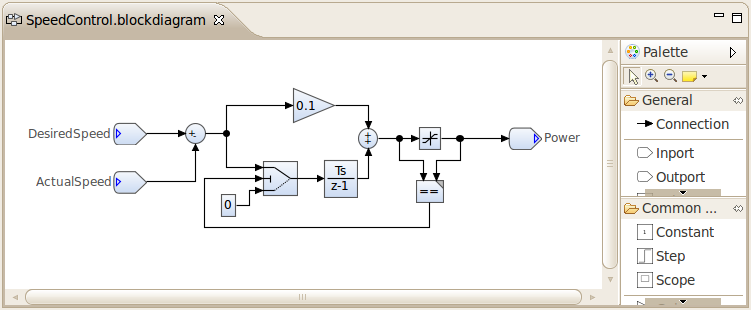
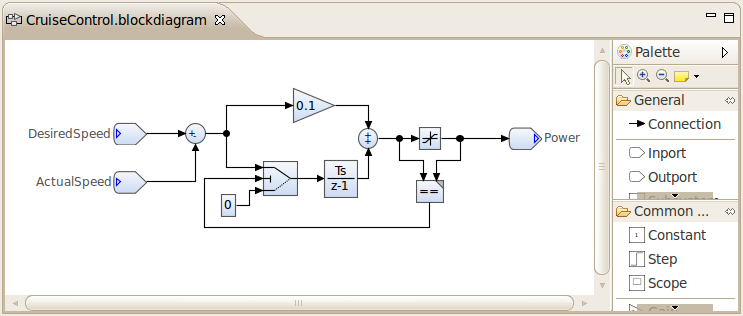
Documentation additions.

diff --git a/DAMOS/trunk/plugins/org.eclipselabs.damos.doc/help/02_UserGuide/01_GettingStarted/GettingStarted.html b/DAMOS/trunk/plugins/org.eclipselabs.damos.doc/help/02_UserGuide/01_GettingStarted/GettingStarted.html
@@ -1,1 +1,1 @@
-<?xml version='1.0' encoding='utf-8' ?><!DOCTYPE html PUBLIC "-//W3C//DTD XHTML 1.0 Transitional//EN" "http://www.w3.org/TR/xhtml1/DTD/xhtml1-transitional.dtd"><html xmlns="http://www.w3.org/1999/xhtml"><head><meta http-equiv="Content-Type" content="text/html; charset=utf-8"/><title>Getting Started</title><link type="text/css" rel="stylesheet" href="../content/PLUGINS_ROOT/PRODUCT_PLUGIN/book.css"/><link type="text/css" rel="stylesheet" href="../../style.css"/></head><body><table class="navigation" style="width: 100%;" border="0" summary="navigation"><tr><th style="width: 100%" align="center" colspan="3">Getting Started</th></tr><tr><td style="width: 20%" align="left"></td><td style="width: 60%" align="center"></td><td style="width: 20%" align="right"><a href="Generating-C-Code.html" title="Generating C Code"><img alt="Next" border="0" src="images/next.gif"/></a></td></tr><tr><td style="width: 20%" align="left" valign="top"></td><td style="width: 60%" align="center"></td><td style="width: 20%" align="right" valign="top">Generating C Code</td></tr></table><hr/><h1 id="CreatingandSimulatingaDamosModel">Creating and Simulating a Damos Model</h1><p>This tutorial provides a step by step walk-through of the basic features of Damos. It will show you how to create a simple Damos model using the block diagram editor and how to simulate the model.</p><h2 id="CreatingaNewDamosProject">Creating a New Damos Project</h2><ol><li>Inside Eclipse select the menu item <strong>File &gt; New &gt; Project...</strong> to open the <strong>New Project</strong> wizard.</li><li>Select <strong>Damos &gt; Damos Project</strong> then click <strong>Next</strong> to start the <strong>New Damos Project</strong> wizard: <img alt="New Damos Project Wizard" title="New Damos Project Wizard" border="0" src="01_CreatingModel_images/NewDamosProject.png"/></li><li>Enter a project name and click <strong>Finish</strong>.</li><li>In the <strong>Project Explorer</strong>, select the newly created Damos project and select the menu item <strong>File &gt; New &gt; Folder</strong>: <img alt="New Damos Project Wizard" title="New Damos Project Wizard" border="0" src="01_CreatingModel_images/NewModelFolder.png"/></li><li>Enter a name for the model folder and click <strong>Finish</strong>.</li></ol><p><em>Note:</em> Instead of creating a Damos project, any kind of project (e.g. C/C++) can be used as a container for Damos models. However, if you then open a Damos model the first time, you will be asked if a Damos project nature should be added to your project &#8212; which you should agree to. This ensures that model validation is performed automatically.</p><h2 id="CreatingaNewDamosModel">Creating a New Damos Model</h2><ol><li>In the <strong>Project Explorer</strong>, select the model folder and select the menu item <strong>File &gt; New &gt; Other...</strong> to open the <strong>New</strong> wizard.</li><li>Select <strong>Damos &gt; Block Diagram</strong> then click <strong>Next</strong> to start the <strong>New Block Diagram</strong> wizard: <img alt="New Block Diagram Wizard" title="New Block Diagram Wizard" border="0" src="01_CreatingModel_images/NewBlockDiagram.png"/></li><li>Enter a new model name and click <strong>Finish</strong>.</li></ol><p>After clicking <strong>Finish</strong>, an empty block diagram file will be created in the model folder, and will be opened in a block diagram editor.</p><h2 id="DesigningtheModel">Designing the Model</h2><p>In this section we are going to design a simple PI controller with a first-order process.</p><h3 id="AddingBlockstotheBlockDiagram">Adding Blocks to the Block Diagram</h3><p>To add blocks to the block diagram, either drag-and-drop the block from the tool palette onto the diagram, or select a block in the tool palette and then click at the location in the diagram where you want to add the block. The blocks that we are going to need in our example can be found in the <strong>Common Blocks</strong> drawer of the tool palette. If blocks in the <strong>Common Blocks</strong> drawer are missing, the <strong>Show All</strong> palette entry can be clicked to open all blocks of the block library in the <strong>Block Library</strong> view. Note that you can only drag-and-drop blocks from the <strong>Block Library</strong> view onto the diagram.</p><p>In our PI controller example, we need to add to the following blocks to the block diagram:</p><ul><li>Two <strong>Sum</strong> blocks, a <strong>Gain</strong> block, and an <strong>Integrator</strong> block representing the PI controller</li><li>A <strong>Transfer Function</strong> block representing our process</li><li>A <strong>Step</strong> block and a <strong>Scope</strong> used for simulation purposes</li></ul><p>After adding the blocks to the block diagram, the block diagram should look as follows:  </p><p><img alt="Block diagram with blocks" title="Block diagram with blocks" border="0" src="01_CreatingModel_images/BlockDiagramWithBlocks.png"/></p><p><em>Note:</em> If you save the incomplete model, errors will be reported in your block diagram. This is due to the fact that we did not connect the blocks yet, and thus the model is still invalid.</p><h3 id="SettingBlockandPortProperties">Setting Block and Port Properties</h3><p>When adding new blocks to the block diagram, the values of the block parameters are initialized to default values. To change the block parameter values, you have to open the <strong>Properties</strong> view (if not yet done). To accomplish this, open the context menu (right-click) of a block and click <strong>Show Properties View</strong>. In the <strong>Properties</strong> view, select the tab <strong>Parameters</strong>.</p><p>In our example model, we need to change the following parameters:</p><ul><li>The gain value of the <strong>Gain</strong> block will be set to 10: <img alt="Gain parameters" title="Gain parameters" border="0" src="01_CreatingModel_images/GainParameters.png"/></li><li>The gain value of the <strong>Integrator</strong> block will be set to 10(1/s): <img alt="Integrator parameters" title="Integrator parameters" border="0" src="01_CreatingModel_images/IntegratorParameters.png"/></li></ul><p>Note that you can also set the gain value of the <strong>Gain</strong> block by clicking (not double-clicking!) on the gain value of the <strong>Gain</strong> block (do not move the mouse after the click). This <em>direct editing</em> behavior can also be found with other blocks.</p><p>Next, we need to change the sign of the second input port of the left <strong>Sum</strong> block to <em>negative</em>. This is is done in the <strong>Ports</strong> tab of the <strong>Properties</strong> view:</p><p><img alt="Sum input port sign" title="Sum input port sign" border="0" src="01_CreatingModel_images/SumInputPortSign.png"/></p><p>Finally, we need to change the port arrangement of the right <strong>Sum</strong> block to <strong>Port-spacer-port</strong>. This is is done in the <strong>Ports</strong> tab of the <strong>Properties</strong> view:</p><p><img alt="Sum input port port arrangement" title="Sum input port port arrangement" border="0" src="01_CreatingModel_images/SumInputPortArrangement.png"/></p><h3 id="ConnectingBlocks">Connecting Blocks</h3><p>To create a connection between an input port of a block and an output port of another block, click the port terminal of either block and drag it to the port terminal of the other block. Alternatively, you can use the <strong>Connection</strong> tool in the <strong>General</strong> palette drawer to create connections between two blocks. After connecting the blocks, the block diagram should look as follows:</p><p><img alt="Final block diagram" title="Final block diagram" border="0" src="01_CreatingModel_images/FinalBlockDiagram.png"/></p><h2 id="SimulatingtheModel">Simulating the Model</h2><p>The easiest way to simulate the model is by setting the focus on the block diagram editor, and then clicking the <strong>Run</strong> (<img border="0" src="01_CreatingModel_images/run_exc.gif"/>) icon in the toolbar. This will create a new simulation run configuration for the focused block diagram, and start the simulation. The simulation result will be shown in the <strong>Simulation</strong> view:</p><p><img alt="Simulation result" title="Simulation result" border="0" src="01_CreatingModel_images/SimulationResult.png"/></p><p>The default simulation run configuration utilizes a commonly used adaptive step size solver (Dormand-Prince 5(4)) using a typical solver configuration. If required, you can adjust the simulation settings in the simulation run configuration dialog (<strong>Run &gt; Run Configurations...</strong>):</p><p><img alt="Simulation run configuration" title="Simulation run configuration" border="0" src="01_CreatingModel_images/SimulationRunConfiguration.png"/></p><p>If you need more control over the simulation, you can define a <em>simulation model</em>, which will directly be passed to the simulator by the simulation launcher. See the topic <em>Concepts</em> for more information on the simulation model.</p><hr/><table class="navigation" style="width: 100%;" border="0" summary="navigation"><tr><td style="width: 20%" align="left"></td><td style="width: 60%" align="center"></td><td style="width: 20%" align="right"><a href="Generating-C-Code.html" title="Generating C Code"><img alt="Next" border="0" src="images/next.gif"/></a></td></tr><tr><td style="width: 20%" align="left" valign="top"></td><td style="width: 60%" align="center"></td><td style="width: 20%" align="right" valign="top">Generating C Code</td></tr></table></body></html>
+<?xml version='1.0' encoding='utf-8' ?><!DOCTYPE html PUBLIC "-//W3C//DTD XHTML 1.0 Transitional//EN" "http://www.w3.org/TR/xhtml1/DTD/xhtml1-transitional.dtd"><html xmlns="http://www.w3.org/1999/xhtml"><head><meta http-equiv="Content-Type" content="text/html; charset=utf-8"/><title>Getting Started</title><link type="text/css" rel="stylesheet" href="../content/PLUGINS_ROOT/PRODUCT_PLUGIN/book.css"/><link type="text/css" rel="stylesheet" href="../../style.css"/></head><body><table class="navigation" style="width: 100%;" border="0" summary="navigation"><tr><th style="width: 100%" align="center" colspan="3">Getting Started</th></tr><tr><td style="width: 20%" align="left"></td><td style="width: 60%" align="center"></td><td style="width: 20%" align="right"><a href="Generating-C-Code.html" title="Generating C Code"><img alt="Next" border="0" src="images/next.gif"/></a></td></tr><tr><td style="width: 20%" align="left" valign="top"></td><td style="width: 60%" align="center"></td><td style="width: 20%" align="right" valign="top">Generating C Code</td></tr></table><hr/><h1 id="CreatingandSimulatingaDamosModel">Creating and Simulating a Damos Model</h1><p>This tutorial provides a step by step walk-through of the basic features of Damos. It will show you how to create a simple Damos model using the block diagram editor and how to simulate the model.</p><h2 id="CreatingaNewDamosProject">Creating a New Damos Project</h2><ol><li>Inside Eclipse select the menu item <strong>File &gt; New &gt; Project...</strong> to open the <strong>New Project</strong> wizard.</li><li>Select <strong>Damos &gt; Damos Project</strong> and then click <strong>Next</strong> to start the <strong>New Damos Project</strong> wizard: <img alt="New Damos Project Wizard" title="New Damos Project Wizard" border="0" src="01_CreatingModel_images/NewDamosProject.png"/></li><li>Enter a project name and click <strong>Finish</strong>.</li><li>In the <strong>Project Explorer</strong>, select the newly created Damos project and select the menu item <strong>File &gt; New &gt; Folder</strong>: <img alt="New Damos Project Wizard" title="New Damos Project Wizard" border="0" src="01_CreatingModel_images/NewModelFolder.png"/></li><li>Enter a name for the model folder and click <strong>Finish</strong>.</li></ol><p><em>Note:</em> Instead of creating a Damos project, any kind of project (e.g. C/C++) can be used as a container for Damos models. However, if you then open a Damos model the first time, you will be asked if a Damos project nature should be added to your project &#8212; which you should agree to. This ensures that model validation is performed automatically.</p><h2 id="CreatingaNewDamosModel">Creating a New Damos Model</h2><ol><li>In the <strong>Project Explorer</strong>, select the model folder and select the menu item <strong>File &gt; New &gt; Other...</strong> to open the <strong>New</strong> wizard.</li><li>Select <strong>Damos &gt; Block Diagram</strong> and then click <strong>Next</strong> to start the <strong>New Block Diagram</strong> wizard: <img alt="New Block Diagram Wizard" title="New Block Diagram Wizard" border="0" src="01_CreatingModel_images/NewBlockDiagram.png"/></li><li>Enter a new model name and click <strong>Finish</strong>.</li></ol><p>After clicking <strong>Finish</strong>, an empty block diagram file will be created in the model folder, and will be opened in a block diagram editor.</p><h2 id="DesigningtheModel">Designing the Model</h2><p>In this section we are going to design a simple PI controller with a first-order process.</p><h3 id="AddingBlockstotheBlockDiagram">Adding Blocks to the Block Diagram</h3><p>To add blocks to the block diagram, either drag-and-drop the block from the tool palette onto the diagram, or select a block in the tool palette and then click at the location in the diagram where you want to add the block. The blocks that we are going to need in our example can be found in the <strong>Common Blocks</strong> drawer of the tool palette. If blocks in the <strong>Common Blocks</strong> drawer are missing, the <strong>Show All</strong> palette entry can be clicked to open all blocks of the block library in the <strong>Block Library</strong> view. Note that you can only drag-and-drop blocks from the <strong>Block Library</strong> view onto the diagram.</p><p>In our PI controller example, we need to add to the following blocks to the block diagram:</p><ul><li>Two <strong>Sum</strong> blocks, a <strong>Gain</strong> block, and an <strong>Integrator</strong> block representing the PI controller</li><li>A <strong>Transfer Function</strong> block representing our process</li><li>A <strong>Step</strong> block and a <strong>Scope</strong> used for simulation purposes</li></ul><p>After adding the blocks to the block diagram, the block diagram should look as follows:  </p><p><img alt="Block diagram with blocks" title="Block diagram with blocks" border="0" src="01_CreatingModel_images/BlockDiagramWithBlocks.png"/></p><p><em>Note:</em> If you save the incomplete model, errors will be reported in your block diagram. This is due to the fact that we did not connect the blocks yet, and thus the model is still invalid.</p><h3 id="SettingBlockandPortProperties">Setting Block and Port Properties</h3><p>When adding new blocks to the block diagram, the values of the block parameters are initialized to default values. To change the block parameter values, you have to open the <strong>Properties</strong> view (if not yet done). To accomplish this, open the context menu (right-click) of a block and click <strong>Show Properties View</strong>. In the <strong>Properties</strong> view, select the tab <strong>Parameters</strong>.</p><p>In our example model, we need to change the following parameters:</p><ul><li>The gain value of the <strong>Gain</strong> block will be set to 10: <img alt="Gain parameters" title="Gain parameters" border="0" src="01_CreatingModel_images/GainParameters.png"/></li><li>The gain value of the <strong>Integrator</strong> block will be set to 10(1/s): <img alt="Integrator parameters" title="Integrator parameters" border="0" src="01_CreatingModel_images/IntegratorParameters.png"/></li></ul><p>Note that you can also set the gain value of the <strong>Gain</strong> block by clicking (not double-clicking!) on the gain value of the <strong>Gain</strong> block (do not move the mouse after the click). This <em>direct editing</em> behavior can also be found with other blocks.</p><p>Next, we need to change the sign of the second input port of the left <strong>Sum</strong> block to <em>negative</em>. This is is done in the <strong>Ports</strong> tab of the <strong>Properties</strong> view:</p><p><img alt="Sum input port sign" title="Sum input port sign" border="0" src="01_CreatingModel_images/SumInputPortSign.png"/></p><p>Finally, we need to change the port arrangement of the right <strong>Sum</strong> block to <strong>Port-spacer-port</strong>. This is is done in the <strong>Ports</strong> tab of the <strong>Properties</strong> view:</p><p><img alt="Sum input port port arrangement" title="Sum input port port arrangement" border="0" src="01_CreatingModel_images/SumInputPortArrangement.png"/></p><h3 id="ConnectingBlocks">Connecting Blocks</h3><p>To create a connection between an input port of a block and an output port of another block, click the port terminal of either block and drag it to the port terminal of the other block. Alternatively, you can use the <strong>Connection</strong> tool in the <strong>General</strong> palette drawer to create connections between two blocks. After connecting the blocks, the block diagram should look as follows:</p><p><img alt="Final block diagram" title="Final block diagram" border="0" src="01_CreatingModel_images/FinalBlockDiagram.png"/></p><h2 id="SimulatingtheModel">Simulating the Model</h2><p>The easiest way to simulate the model is by setting the focus on the block diagram editor, and then clicking the <strong>Run</strong> (<img border="0" src="01_CreatingModel_images/run_exc.gif"/>) icon in the toolbar. This will create a new simulation run configuration for the focused block diagram, and start the simulation. The simulation result will be shown in the <strong>Simulation</strong> view:</p><p><img alt="Simulation result" title="Simulation result" border="0" src="01_CreatingModel_images/SimulationResult.png"/></p><p>The default simulation run configuration utilizes a commonly used adaptive step size solver (Dormand-Prince 5(4)) using a typical solver configuration. If required, you can adjust the simulation settings in the simulation run configuration dialog (<strong>Run &gt; Run Configurations...</strong>):</p><p><img alt="Simulation run configuration" title="Simulation run configuration" border="0" src="01_CreatingModel_images/SimulationRunConfiguration.png"/></p><p>If you need more control over the simulation, you can define a <em>simulation model</em>, which will directly be passed to the simulator by the simulation launcher. See the topic <em>Concepts</em> for more information on the simulation model.</p><hr/><table class="navigation" style="width: 100%;" border="0" summary="navigation"><tr><td style="width: 20%" align="left"></td><td style="width: 60%" align="center"></td><td style="width: 20%" align="right"><a href="Generating-C-Code.html" title="Generating C Code"><img alt="Next" border="0" src="images/next.gif"/></a></td></tr><tr><td style="width: 20%" align="left" valign="top"></td><td style="width: 60%" align="center"></td><td style="width: 20%" align="right" valign="top">Generating C Code</td></tr></table></body></html>

diff --git a/DAMOS/trunk/plugins/org.eclipselabs.damos.doc/help/02_UserGuide/01_GettingStarted/Generating-C-Code.html b/DAMOS/trunk/plugins/org.eclipselabs.damos.doc/help/02_UserGuide/01_GettingStarted/Generating-C-Code.html
@@ -1,18 +1,18 @@
-<?xml version='1.0' encoding='utf-8' ?><!DOCTYPE html PUBLIC "-//W3C//DTD XHTML 1.0 Transitional//EN" "http://www.w3.org/TR/xhtml1/DTD/xhtml1-transitional.dtd"><html xmlns="http://www.w3.org/1999/xhtml"><head><meta http-equiv="Content-Type" content="text/html; charset=utf-8"/><title>Getting Started - Generating C Code</title><link type="text/css" rel="stylesheet" href="../content/PLUGINS_ROOT/PRODUCT_PLUGIN/book.css"/><link type="text/css" rel="stylesheet" href="../../style.css"/></head><body><table class="navigation" style="width: 100%;" border="0" summary="navigation"><tr><th style="width: 100%" align="center" colspan="3">Generating C Code</th></tr><tr><td style="width: 20%" align="left"><a href="GettingStarted.html" title="Creating and Simulating a Damos Model"><img alt="Previous" border="0" src="images/prev.gif"/></a></td><td style="width: 60%" align="center"></td><td style="width: 20%" align="right"></td></tr><tr><td style="width: 20%" align="left" valign="top">Creating and Simulating a Damos Model</td><td style="width: 60%" align="center"></td><td style="width: 20%" align="right" valign="top"></td></tr></table><hr/><h1 id="GeneratingCCode">Generating C Code</h1><p>In this section you will learn how to generate C code from a Damos model and how to integrate the generated C code in existing applications. We assume that you read the previous topic and know how to create a basic Damos model.</p><h2 id="ExampleModel">Example Model</h2><p>The example model will be a simple PI controller-based speed control with an anti-windup circuit. The inputs of the controller will be the desired speed and the actual speed. The output value (i.e. engine power) will be limited to a value between 0.0 and 1.0 (0% to 100%). The anti-windup circuit is needed to prevent the integrator to windup when the maximum output power is reached.</p><p>To create the example model:</p><ul><li>Create a new block diagram in the model folder of a new Damos project (see previous topic for more details):<ol><li>Create a new Damos project (<strong>File &gt; New &gt; Project...</strong> and then select <strong>Damos &gt; Damos Project</strong>).</li><li>Create a model folder in the new Damos project.</li><li>Create a new block diagram in the model folder (<strong>File &gt; New &gt; Other...</strong> and then select <strong>New Block Diagram</strong>).</li></ol></li><li>From the <strong>General</strong> palette drawer, add two <strong>Inport</strong> blocks and one <strong>Outport</strong> block to the block diagram.</li><li>Red markers will indicate that the data types are missing. To fix this, specify <strong>real</strong> as data type for all Inports and Outports using the Properties view. Alternatively, you can use the quick fix from the tool tip of the error marker.</li><li>Name the two Inports <em>DesiredSpeed</em> and <em>ActualSpeed</em>, and the Outport <em>Power</em>.</li><li>Optionally, for each Inport and Outport select <strong>Show Name</strong> in the <strong>Appearance</strong> property tab to show their names.</li></ul><p>The block diagram should look as follows:</p><p><img alt="Initial block diagram" title="Initial block diagram" border="0" src="02_GeneratingCode_images/InitialBlockDiagram.png"/></p><p>You may ask, why do we need these Inports and Outports? As we will see later, those blocks will represent the interface of our system in the generated code.</p><p>Next, we add the following block to the block diagram:</p><ul><li>2 <strong>Sum</strong> blocks</li><li><strong>Gain</strong> block with a gain value of 0.1</li><li><strong>Constant</strong> block with a value of 0</li><li><strong>Switch</strong> block</li><li><strong>Discrete Integrator</strong> block with an initial value of 0 and a gain value of 0.075(1/s)</li><li><strong>Saturate</strong> block with upper limit of 1 and lower limit of 0</li><li><strong>Compare</strong> block with an equals (&#8216;==&#8217;) operator</li></ul><p>After connecting the blocks, the block diagram should look as follows: </p><p><img alt="Final block diagram" title="Final block diagram" border="0" src="02_GeneratingCode_images/FinalBlockDiagram.png"/></p><h2 id="CreatingGeneratorConfiguration">Creating Generator Configuration</h2><p>To generate code from a Damos model, we need to create a <em>generator configuration</em>. To create the generator configuration:</p><ul><li>Right-click the block diagram in the project explorer, and then <strong>New &gt; Other...</strong>.</li><li>Select <strong>Damos &gt; C Code Generator Configuration</strong>: <img alt="New C code generator configuration wizard" title="New C code generator configuration wizard" border="0" src="02_GeneratingCode_images/NewCCodeGeneratorConfiguration.png"/></li><li>Click <strong>Finish</strong></li></ul><p>After clicking <strong>Finish</strong>, the new generator configuration file with the extension <em>.dconfig</em> should be opened in a text editor. It should have the following contents:</p><pre><code>package speedcontrol
+<?xml version='1.0' encoding='utf-8' ?><!DOCTYPE html PUBLIC "-//W3C//DTD XHTML 1.0 Transitional//EN" "http://www.w3.org/TR/xhtml1/DTD/xhtml1-transitional.dtd"><html xmlns="http://www.w3.org/1999/xhtml"><head><meta http-equiv="Content-Type" content="text/html; charset=utf-8"/><title>Getting Started - Generating C Code</title><link type="text/css" rel="stylesheet" href="../content/PLUGINS_ROOT/PRODUCT_PLUGIN/book.css"/><link type="text/css" rel="stylesheet" href="../../style.css"/></head><body><table class="navigation" style="width: 100%;" border="0" summary="navigation"><tr><th style="width: 100%" align="center" colspan="3">Generating C Code</th></tr><tr><td style="width: 20%" align="left"><a href="GettingStarted.html" title="Creating and Simulating a Damos Model"><img alt="Previous" border="0" src="images/prev.gif"/></a></td><td style="width: 60%" align="center"></td><td style="width: 20%" align="right"><a href="Structuring-Models-using-Subsystems.html" title="Structuring Models using Subsystems"><img alt="Next" border="0" src="images/next.gif"/></a></td></tr><tr><td style="width: 20%" align="left" valign="top">Creating and Simulating a Damos Model</td><td style="width: 60%" align="center"></td><td style="width: 20%" align="right" valign="top">Structuring Models using Subsystems</td></tr></table><hr/><h1 id="GeneratingCCode">Generating C Code</h1><p>In this topic you will learn how to generate C code from a Damos model and how to integrate the generated C code in existing applications. We assume that you read the previous topic and know how to create a basic Damos model.</p><h2 id="ExampleModel">Example Model</h2><p>The example model will be a simple PI controller-based cruise control with an anti-windup circuit. The inputs of the controller will be the desired speed and the actual speed. The output value (i.e. engine power) will be limited to a value between 0.0 and 1.0 (0% to 100%). The anti-windup circuit is needed to prevent the integrator to windup when the maximum output power is reached.</p><p>To create the example model:</p><ol><li>Create a new block diagram in the model folder of a new Damos project (see previous topic for more details):<ul><li>Create a new Damos project (<strong>File &gt; New &gt; Project...</strong> and then select <strong>Damos &gt; Damos Project</strong>).</li><li>Create a model folder in the new Damos project.</li><li>Create a new block diagram in the model folder (right-click on the model folder <strong>File &gt; New &gt; Other...</strong> and then select <strong>Damos &gt; Block Diagram</strong>).</li></ul></li><li>From the <strong>General</strong> palette drawer, add two <strong>Inport</strong> blocks and one <strong>Outport</strong> block to the block diagram.</li><li>Red markers will indicate that the data types are missing. To fix this, specify <strong>real</strong> as data type for all Inports and Outports using the Properties view. Alternatively, you can use the quick fix from the tool tip of the error marker.</li><li>Name the two Inports <em>DesiredSpeed</em> and <em>ActualSpeed</em>, and the Outport <em>Power</em>.</li><li>Optionally, for each Inport and Outport select <strong>Show Name</strong> in the <strong>Appearance</strong> property tab to show their names.</li></ol><p>The block diagram should look as follows:</p><p><img alt="Initial block diagram" title="Initial block diagram" border="0" src="02_GeneratingCode_images/InitialBlockDiagram.png"/></p><p>You may ask, why do we need these Inports and Outports? As we will see later, those blocks will represent the interface of our system in the generated code.</p><p>Next, we add the following block to the block diagram:</p><ul><li>2 <strong>Sum</strong> blocks</li><li><strong>Gain</strong> block with a gain value of <code>0.1</code></li><li><strong>Constant</strong> block with a value of <code>0</code></li><li><strong>Switch</strong> block</li><li><strong>Discrete Integrator</strong> block with an initial value of 0 and a gain value of <code>0.075(1/s)</code></li><li><strong>Saturate</strong> block with upper limit of <code>1</code> and lower limit of <code>0</code></li><li><strong>Compare</strong> block with an equals (<code>==</code>) operator</li></ul><p>After connecting the blocks, the block diagram should look as follows: </p><p><img alt="Final block diagram" title="Final block diagram" border="0" src="02_GeneratingCode_images/FinalBlockDiagram.png"/></p><p><em>Important:</em> Before we can generate code from the model, we must specify the sample time for model:</p><ol><li>Select the leftmost <strong>Sum</strong> block.</li><li>In the <strong>General</strong> tab of the Properties view, set the <strong>Timing Constraint</strong> property to <em>Synchronous</em>.</li><li>Enter <code>0.1(s)</code> into the <strong>Sample Time (second)</strong> field.</li></ol><p>The other blocks will automatically inherit the timing constraint from the Sum block. If you forget to set this property, you will get an error stating that the sample time could not be resolved for certain blocks when invoking the code generator or simulator.</p><h2 id="CreatingGeneratorConfiguration">Creating Generator Configuration</h2><p>To generate code from a Damos model, we need to create a <em>generator configuration</em>. To create the generator configuration:</p><ol><li>Right-click the block diagram in the project explorer, and then <strong>New &gt; Other...</strong>.</li><li>Select <strong>Damos &gt; C Code Generator Configuration</strong>: <img alt="New C code generator configuration wizard" title="New C code generator configuration wizard" border="0" src="02_GeneratingCode_images/NewCCodeGeneratorConfiguration.png"/></li><li>Keep the default name <em>GenerateCruiseControl</em> and click <strong>Finish</strong>.</li></ol><p>After clicking <strong>Finish</strong>, the new generator configuration file with the extension <em>.dconfig</em> will be opened in a text editor. It should have the following contents:</p><pre><code>package cruisecontrol
 
 import damos.codegen.*
 import damos.codegen.c.*
 
-configuration GenerateSpeedControl {
+configuration GenerateCruiseControl {
 
 	select generator DefaultGenerator {
-		projectName = "SpeedControl"
+		projectName = "CruiseControl"
 		sourceFolder = "src-gen"
-		systemSourceFile = "SpeedControl.c"
+		systemSourceFile = "CruiseControl.c"
 	}
 
-	system SpeedControl {
-		prefix = "SpeedControl_"
+	system CruiseControl {
+		prefix = "CruiseControl_"
 		//propagate computation {
 		//	map real() to float64
 		//	map int() to int32
@@ -20,19 +20,19 @@ configuration GenerateSpeedControl {
 	}
 
 }
-</code></pre><p>The <code>projectName</code> and <code>sourceFolder</code> properties specify the target project and source folder, respectively. If you want to generate the code into another project or folder, you can change those properties accordingly.</p><h2 id="GeneratingSourceCode">Generating Source Code</h2><p>To start the code generation process, right-click on the generator configuration file (in our example <em>GenerateSpeedControl.dconfig</em>) and select <strong>Generate Code</strong>. The target source folder should now contain a C header file (.h) and a C source file (.c).</p><h2 id="IntegratingtheGeneratedCodeinExistingApplications">Integrating the Generated Code in Existing Applications</h2><p>The public interface of the generated code is defined in the header file. It consists of two functions:</p><ul><li><code>SpeedControl_initialize(void)</code> function, which must be called only once, and the</li><li><code>SpeedControl_execute(const SpeedControl_Input *input, SpeedControl_Output *output)</code> function, which must be invoked periodically.</li></ul><p>The <code>input</code> and <code>output</code> parameters of the <em>execute</em> function are pointers to structures containing a member variable for each Inport and Output, respectively. Before invoking the <em>execute</em> function, the member variables of the input structure must be set (e.g. from sensor data). After returning from the <em>execute</em> function, the results can be read from the member variables of the output structure for further processing (e.g. new actuator value).</p><p>A simplified application may look as follows:</p><pre><code>void speedControlTask(void) {
-	SpeedControl_Input input;
-	SpeedControl_Output output;
+</code></pre><p>The <code>projectName</code> and <code>sourceFolder</code> properties specify the target project and source folder, respectively. If you want to generate the code into another project or folder, you can change those properties accordingly.</p><h2 id="GeneratingSourceCode">Generating Source Code</h2><p>To start the code generation process, right-click on the generator configuration file (in our example <em>GenerateCruiseControl.dconfig</em>) and select <strong>Generate Code</strong>. The target source folder should now contain a C header file (.h) and a C source file (.c).</p><h2 id="IntegratingtheGeneratedCodeinExistingApplications">Integrating the Generated Code in Existing Applications</h2><p>The public interface of the generated code is defined in the header file. It consists of two functions:</p><ul><li><code>CruiseControl_initialize(void)</code> function, which must be called only once, and the</li><li><code>CruiseControl_execute(const CruiseControl_Input *input, CruiseControl_Output *output)</code> function, which must be invoked periodically.</li></ul><p>The <code>input</code> and <code>output</code> parameters of the <em>execute</em> function are pointers to structures containing a member variable for each Inport and Output, respectively. Before invoking the <em>execute</em> function, the member variables of the input structure must be set (e.g. from sensor data). After returning from the <em>execute</em> function, the results can be read from the member variables of the output structure for further processing (e.g. new actuator value).</p><p>A simplified application may look as follows:</p><pre><code>void cruiseControlTask(void) {
+	CruiseControl_Input input;
+	CruiseControl_Output output;
 	
-	SpeedControl_initialize();
+	CruiseControl_initialize();
 	
 	for (;;) {
 		input.desiredSpeed = getDesiredSpeed();
 		input.actualSpeed = getActualSpeed();
 		
-		SpeedControl_execute(&amp;input, &amp;output);
+		CruiseControl_execute(&amp;input, &amp;output);
 		
 		setEnginePower(output.power);
 	}
 }
-</code></pre><p><em>Note:</em> Damos allows you to provide <em>target generators</em> for specific systems. In this case you do not need to write the glue code for accessing the hardware. See the topic <em>Concepts</em> for more information on target generators.</p><hr/><table class="navigation" style="width: 100%;" border="0" summary="navigation"><tr><td style="width: 20%" align="left"><a href="GettingStarted.html" title="Creating and Simulating a Damos Model"><img alt="Previous" border="0" src="images/prev.gif"/></a></td><td style="width: 60%" align="center"><a href="GettingStarted.html" title="Getting Started"><img alt="Getting Started" border="0" src="images/home.gif"/></a></td><td style="width: 20%" align="right"></td></tr><tr><td style="width: 20%" align="left" valign="top">Creating and Simulating a Damos Model</td><td style="width: 60%" align="center"></td><td style="width: 20%" align="right" valign="top"></td></tr></table></body></html>
+</code></pre><p><em>Note:</em> Damos allows you to provide <em>target generators</em> for specific systems. In this case you do not need to write the glue code for accessing the hardware. See the topic <em>Concepts</em> for more information on target generators.</p><hr/><table class="navigation" style="width: 100%;" border="0" summary="navigation"><tr><td style="width: 20%" align="left"><a href="GettingStarted.html" title="Creating and Simulating a Damos Model"><img alt="Previous" border="0" src="images/prev.gif"/></a></td><td style="width: 60%" align="center"><a href="GettingStarted.html" title="Getting Started"><img alt="Getting Started" border="0" src="images/home.gif"/></a></td><td style="width: 20%" align="right"><a href="Structuring-Models-using-Subsystems.html" title="Structuring Models using Subsystems"><img alt="Next" border="0" src="images/next.gif"/></a></td></tr><tr><td style="width: 20%" align="left" valign="top">Creating and Simulating a Damos Model</td><td style="width: 60%" align="center"></td><td style="width: 20%" align="right" valign="top">Structuring Models using Subsystems</td></tr></table></body></html>

diff --git a/DAMOS/trunk/plugins/org.eclipselabs.damos.doc/help/02_UserGuide/01_GettingStarted/Structuring-Models-using-Subsystems.html b/DAMOS/trunk/plugins/org.eclipselabs.damos.doc/help/02_UserGuide/01_GettingStarted/Structuring-Models-using-Subsystems.html
@@ -1,0 +1,11 @@
+<?xml version='1.0' encoding='utf-8' ?><!DOCTYPE html PUBLIC "-//W3C//DTD XHTML 1.0 Transitional//EN" "http://www.w3.org/TR/xhtml1/DTD/xhtml1-transitional.dtd"><html xmlns="http://www.w3.org/1999/xhtml"><head><meta http-equiv="Content-Type" content="text/html; charset=utf-8"/><title>Getting Started - Structuring Models using Subsystems</title><link type="text/css" rel="stylesheet" href="../content/PLUGINS_ROOT/PRODUCT_PLUGIN/book.css"/><link type="text/css" rel="stylesheet" href="../../style.css"/></head><body><table class="navigation" style="width: 100%;" border="0" summary="navigation"><tr><th style="width: 100%" align="center" colspan="3">Structuring Models using Subsystems</th></tr><tr><td style="width: 20%" align="left"><a href="Generating-C-Code.html" title="Generating C Code"><img alt="Previous" border="0" src="images/prev.gif"/></a></td><td style="width: 60%" align="center"></td><td style="width: 20%" align="right"></td></tr><tr><td style="width: 20%" align="left" valign="top">Generating C Code</td><td style="width: 60%" align="center"></td><td style="width: 20%" align="right" valign="top"></td></tr></table><hr/><h1 id="StructuringModelsusingSubsystems">Structuring Models using Subsystems</h1><p>In this topic you will learn how to structure Damos models for better clarity and reusability. For illustration purposes we will reuse the example model of the previous topic. Therefore, before starting this topic, you should have a working model of the previous topic.</p><p>The goal will be to create an enclosing model for the cruise control model, which contains the cruise control model as a subsystem. The enclosing model will include blocks that describe the physical environment (e.g. a car) of the cruise control. This will allow us to simulate the cruise control model within its environment.</p><h2 id="CreatingaSystemInterface">Creating a System Interface</h2><p>Before we can add the cruise control subsystem to our environment model, we need to define the <em>system interface</em> of our cruise control model. To create the system interface:</p><ol><li>Right-click on the <em>CruiseControl.blockdiagram</em> file and select <strong>New &gt; Other...</strong> to open the <strong>New</strong> wizard.</li><li>Select <strong>Damos &gt; System Interface</strong> and then click <strong>Next</strong> to start the <strong>New System Interface</strong> wizard: <img alt="New System Interface Wizard" title="New System Interface Wizard" border="0" src="03_StructuringModels_images/NewSystemInterface.png"/></li><li>Keep the default name <em>CruiseControl</em> and click <strong>Finish</strong>.</li></ol><p>After clicking <strong>Finish</strong>, the new system interface definition will be opened in a text editor. It should have the following contents:</p><pre><code>package cruisecontrol
+
+systemInterface CruiseControl {
+
+	inlet real DesiredSpeed
+	inlet real ActualSpeed
+
+	outlet real Power
+
+}
+</code></pre><p>The <code>inlet</code> and <code>outlet</code> declarations are used to specify the inputs and outputs of the cruise control subsystem.</p><h2 id="CreatingtheEnvironmentModel">Creating the Environment Model</h2><p>To create the environment model:</p><ol><li>Create a new block diagram in the model folder (right-click on the model folder <strong>New &gt; Other...</strong> and then <strong>Damos &gt; Block Diagram</strong>) with the name <em>Environment</em>.</li><li>Use the subsystem creation tool from the <strong>General</strong> palette drawer to create a new subsystem. When releasing the mouse on the block diagram, the system interface selection dialog will appear: <img alt="Select System Interface Dialog" title="Select System Interface Dialog" border="0" src="03_StructuringModels_images/SelectSystemInterface.png"/></li><li>Select <em>CruiseControl.systeminterface</em> and click <strong>OK</strong>.</li></ol><p>A subsystem <em>CruiseControl</em> has now been added to the block diagram. Note that the subsystem has a dashed border, which means that no <em>subsystem realization</em> has been specified. To specify the subsystem realization:</p><ol><li>Right-click on the subsystem and select <strong>Change Realization...</strong>.</li><li>In the <strong>Change Subsystem Realization</strong> dialog, enable the <strong>Provide subsystem realization</strong> check box.</li><li>Click the <strong>Load...</strong> button.</li><li>In the <strong>Select Block Diagram</strong> dialog, select <em>CruiseControl.blockdiagram</em> and then click <strong>OK</strong>.</li><li>Back in the <strong>Change Subsystem Realization</strong> dialog, select <strong>CruiseControl</strong> as the realizing fragment: <img alt="Change Subsystem Realization Dialog" title="Change Subsystem Realization Dialog" border="0" src="03_StructuringModels_images/ChangeSubsystemRealization.png"/></li><li>Click <strong>OK</strong>.</li></ol><p>The block diagram should now look as follows (notice the solid subsystem border):</p><p><img alt="Initial Environment Model" title="Initial Environment Model" border="0" src="03_StructuringModels_images/InitialEnvironmentModel.png"/></p><p>Finally, we need to add the following blocks:</p><ul><li><strong>Step</strong> block with initial value of <code>0</code>, final value of <code>100</code>, and step time of <code>1(s)</code></li><li><strong>Transfer Function</strong> block with numerator coefficient of <code>{ 200 }</code> and denominator coefficients of <code>{ 10, 1 }</code></li><li>2 <strong>Scope</strong> blocks</li></ul><p>After connecting the blocks, the block diagram should look as follows:</p><p><img alt="Final Environment Model" title="Final Environment Model" border="0" src="03_StructuringModels_images/FinalEnvironmentModel.png"/></p><h2 id="SimulatingtheEnvironmentModel">Simulating the Environment Model</h2><p>To simulate the cruise control model within its environment model, select <strong>Run &gt; Run As &gt; Damos Simulation</strong> or click the <strong>Run</strong> (<img border="0" src="01_CreatingModel_images/run_exc.gif"/>) icon in the toolbar. The simulation result should look as follows:</p><p><img alt="Simulation Result" title="Simulation Result" border="0" src="03_StructuringModels_images/SimulationResult.png"/></p><p><em>Note:</em> If you get an error stating that the sample time could not be resolved for certain blocks, you probably forgot to set the sample time on the leftmost Sum block of your cruise control model (see previous topic for more details).</p><hr/><table class="navigation" style="width: 100%;" border="0" summary="navigation"><tr><td style="width: 20%" align="left"><a href="Generating-C-Code.html" title="Generating C Code"><img alt="Previous" border="0" src="images/prev.gif"/></a></td><td style="width: 60%" align="center"><a href="GettingStarted.html" title="Getting Started"><img alt="Getting Started" border="0" src="images/home.gif"/></a></td><td style="width: 20%" align="right"></td></tr><tr><td style="width: 20%" align="left" valign="top">Generating C Code</td><td style="width: 60%" align="center"></td><td style="width: 20%" align="right" valign="top"></td></tr></table></body></html>

diff --git a/DAMOS/trunk/plugins/org.eclipselabs.damos.diagram.ui/src/org/eclipselabs/damos/diagram/ui/dialogs/ChangeRealizationDialog.java b/DAMOS/trunk/plugins/org.eclipselabs.damos.diagram.ui/src/org/eclipselabs/damos/diagram/ui/dialogs/ChangeRealizationDialog.java
@@ -169,7 +169,7 @@ public class ChangeRealizationDialog extends Dialog {
 		fragmentViewer.setInput(editingDomain.getResourceSet());
 
 		searchButton = new Button(composite, SWT.PUSH);
-		searchButton.setText("Load Resource...");
+		searchButton.setText("Load...");
 		GridDataFactory.defaultsFor(searchButton).align(SWT.CENTER, SWT.BEGINNING).applyTo(searchButton);
 		searchButton.addSelectionListener(new SelectionAdapter() {
 			
@@ -216,6 +216,8 @@ public class ChangeRealizationDialog extends Dialog {
 				false,
 				ResourcesPlugin.getWorkspace().getRoot(),
 				IResource.FILE);
+		d.setTitle("Select Block Diagram");
+		d.setMessage("Select block diagram to load (*, ?, or camel case):");
 		d.setInitialPattern("*.blockdiagram");
 		
 		if (d.open() == Dialog.OK) {

diff --git a/DAMOS/trunk/plugins/org.eclipselabs.damos.diagram.ui/src/org/eclipselabs/damos/diagram/ui/internal/providers/SystemInterfaceProvider.java b/DAMOS/trunk/plugins/org.eclipselabs.damos.diagram.ui/src/org/eclipselabs/damos/diagram/ui/internal/providers/SystemInterfaceProvider.java
@@ -54,6 +54,8 @@ public class SystemInterfaceProvider implements ISystemInterfaceProvider {
 					false,
 					ResourcesPlugin.getWorkspace().getRoot(),
 					IResource.FILE);
+			d.setTitle("Select System Interface");
+			d.setMessage("Select a system interface for the new subsystem (*, ?, or camel case):");
 			d.setInitialPattern("*.systeminterface");
 			
 			if (d.open() == Dialog.OK) {

diff --git a/DAMOS/trunk/plugins/org.eclipselabs.damos.dconfig.ui/src/org/eclipselabs/damos/dconfig/ui/wizards/WizardNewConfigurationCreationPage.java b/DAMOS/trunk/plugins/org.eclipselabs.damos.dconfig.ui/src/org/eclipselabs/damos/dconfig/ui/wizards/WizardNewConfigurationCreationPage.java
@@ -277,6 +277,9 @@ public class WizardNewConfigurationCreationPage extends WizardPage {
 		super.setVisible(visible);
 		if (visible) {
 			configurationNameText.setFocus();
+			if (configurationNameText.getText().length() > 0) {
+				configurationNameText.selectAll();
+			}
 		}
 	}
 

diff --git a/DAMOS/trunk/plugins/org.eclipselabs.damos.dml.ui/src/org/eclipselabs/damos/dml/ui/wizards/WizardNewQualifiedElementCreationPage.java b/DAMOS/trunk/plugins/org.eclipselabs.damos.dml.ui/src/org/eclipselabs/damos/dml/ui/wizards/WizardNewQualifiedElementCreationPage.java
@@ -220,6 +220,9 @@ public class WizardNewQualifiedElementCreationPage extends WizardPage {
 		super.setVisible(visible);
 		if (visible) {
 			modelNameText.setFocus();
+			if (modelNameText.getText().length() > 0) {
+				modelNameText.selectAll();
+			}
 		}
 	}
 
